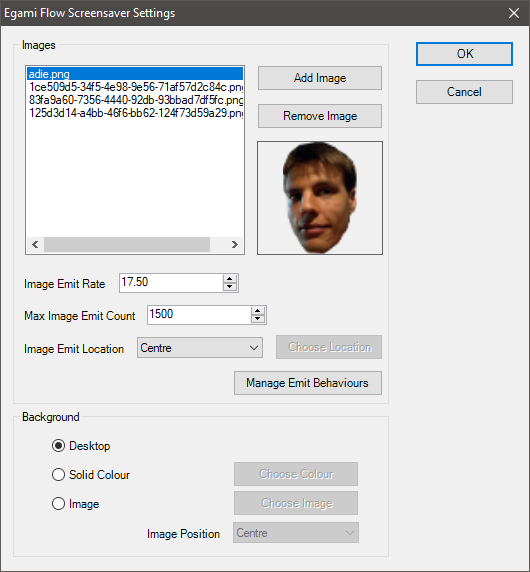
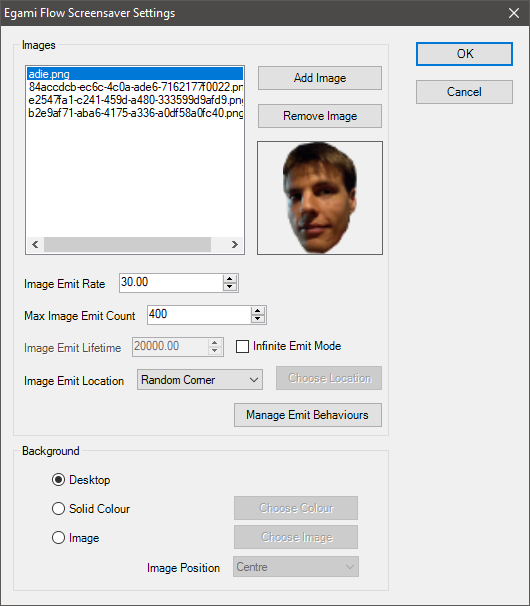
Updates to README.md based on new infinite emit and transition on destroy feature
Added documentation for new infinite emit and transition on image destroy feature.

diff --git a/README.md b/README.md
@@ -37,6 +37,8 @@ the screensaver while it is running, as well as configure a few other settings a
     * [Remove Image](#remove-image)
     * [Image Emit Rate](#image-emit-rate)
     * [Max Image Emit Count](#max-image-emit-count)
+    * [Image Emit Lifetime](#image-emit-lifetime)
+    * [Infinite Emit Mode](#infinite-emit-mode)
     * [Image Emit Location](#image-emit-location)
 - [Manage Emit Behaviours](#manage-emit-behaviours)
     * [Configure Behaviour](#configure-behaviour)
@@ -61,6 +63,15 @@ The number of new images that will be created by the screensaver per second.
 #### Max Image Emit Count
 The maximum number of images that will be created by the screensaver; when this number of images
 are floating around the screen, the screensaver will stop creating new images.
+
+#### Image Emit Lifetime
+The time that emitted images will stay on the screen for (in milliseconds) if *Infinite Emit Mode*
+is enabled. Behaviour transitions may extend this lifetime.
+
+#### Infinite Emit Mode
+Whether or not images will be emitted infinitely. In this mode, images will be destroyed after the
+time set by *Image Emit Lifetime*, and may have transitioning effects while they are being destroyed
+if any behaviours that allow this are enabled and configured to do so.
 
 #### Image Emit Location
 The location that images will be emitted at on the screensaver; possible values are described
